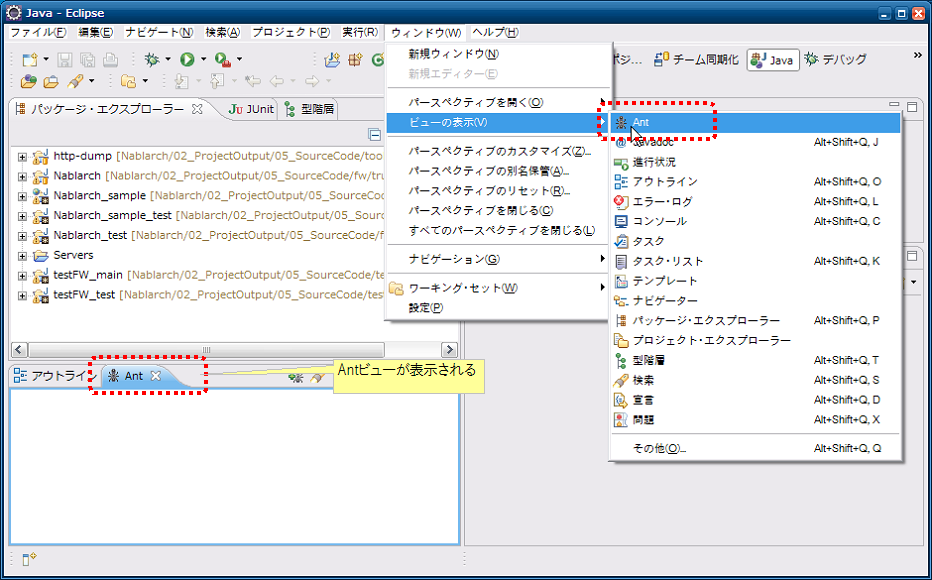
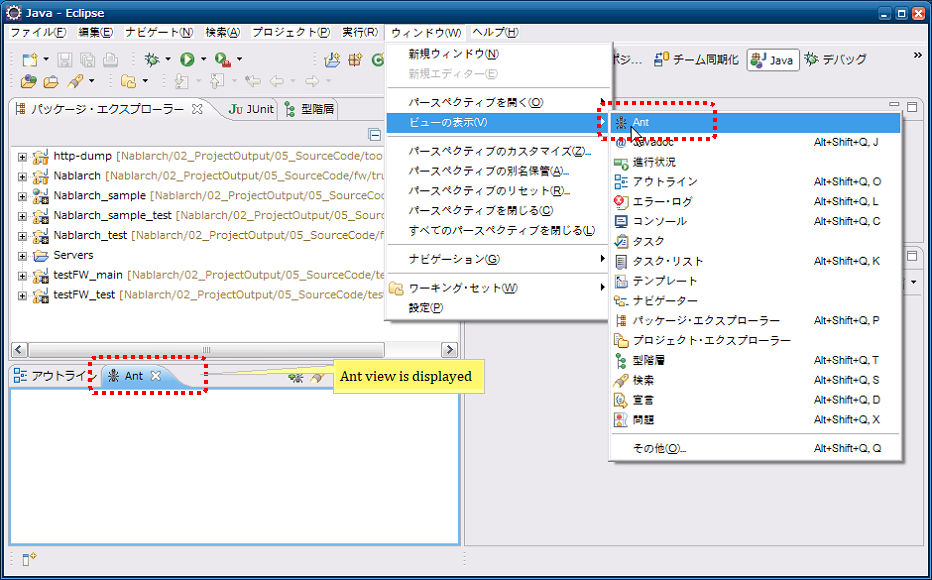
ニュアンスが原文と異なっていたものと図中に日本語がア残っていた箇所を修正

Changed region(s): [[0.3423, 0.6207, 0.529, 0.6828]]

diff --git a/en/application_framework/application_framework/blank_project/CustomizeDB.rst b/en/application_framework/application_framework/blank_project/CustomizeDB.rst
@@ -1,6 +1,6 @@
 
 =======================================================
-Procedure for Changing the RDBMS to Use
+Procedure for Changing the RDBMS used
 =======================================================
 
 .. contents:: Table of contents
